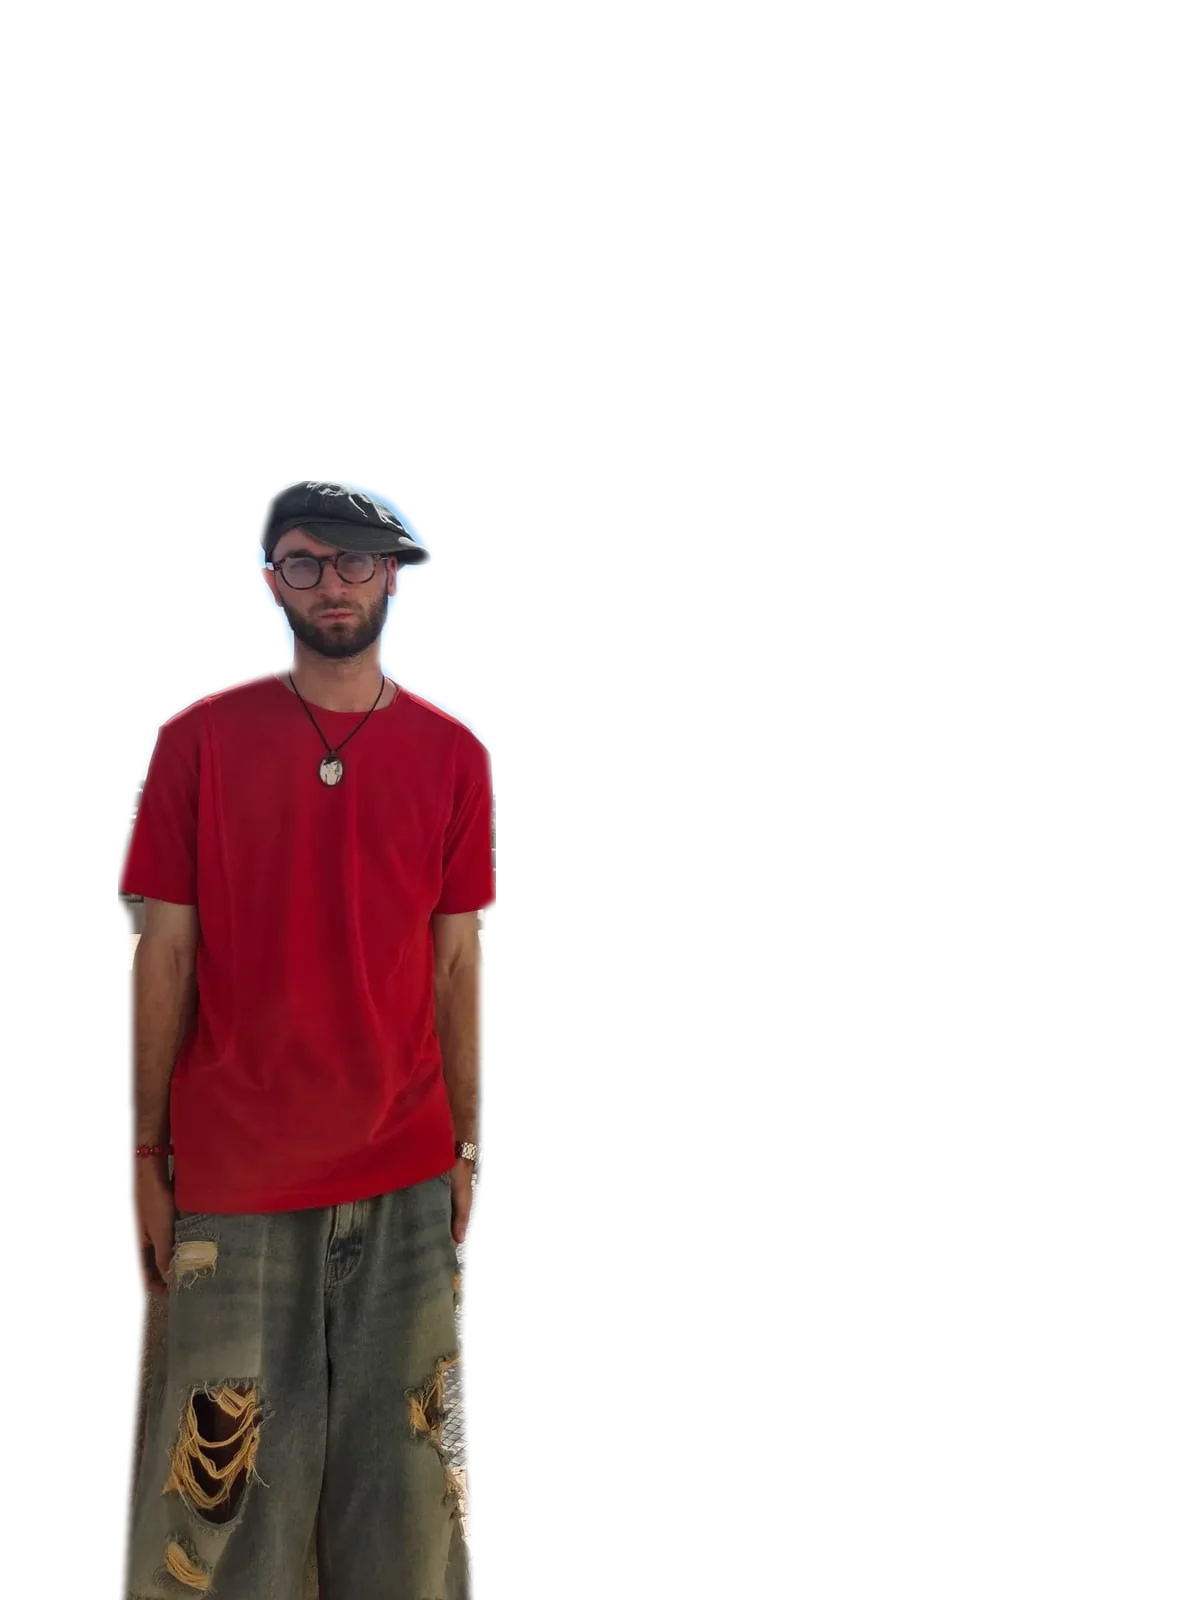
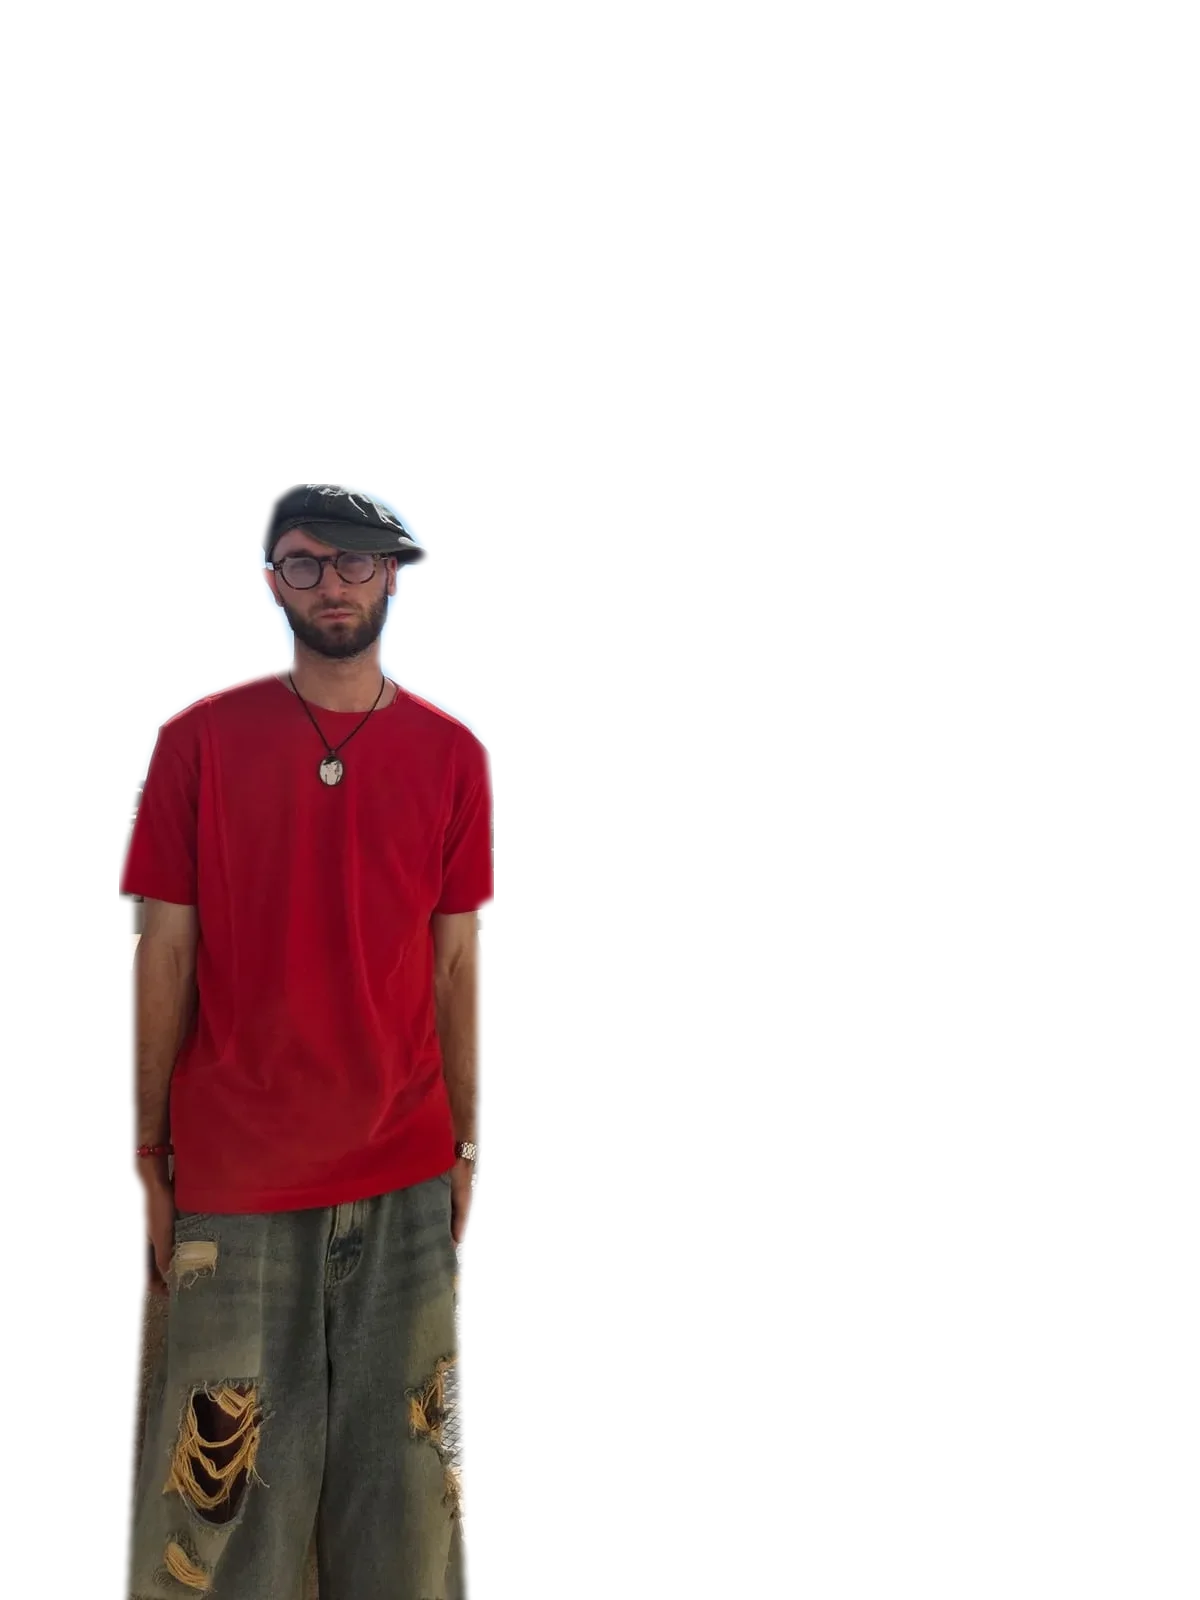
Interests collage: tighter cut-out, smaller plates, add lamb and malai
Retrace the hat, elbows, hands and legs of the Rome cut-out more tightly;
shrink the plates and scatter them on the open side with the poached pear
to the right of the figure; add braised lamb shank and chicken malai boti
handi cut-outs.

diff --git a/app/globals.css b/app/globals.css
@@ -393,17 +393,19 @@ body {
 .icollage .ic-figure-layer { z-index: 1; }
 .icollage .tag { z-index: 3; }
 /* dishes scattered on the open side of the photo */
-.icollage .ic-pear { left: 2%; top: 3%; width: 19%; transform: rotate(-7deg); }
-.icollage .ic-trout { left: 49%; top: 5%; width: 30%; transform: rotate(8deg); }
-.icollage .ic-ragu { left: 60%; top: 29%; width: 27%; transform: rotate(-5deg); }
-.icollage .ic-curry { left: 47%; top: 54%; width: 29%; transform: rotate(6deg); }
-.icollage .ic-steak { left: 61%; top: 74%; width: 26%; transform: rotate(-10deg); }
+.icollage .ic-pear { left: 50%; top: 4%; width: 15%; transform: rotate(8deg); }
+.icollage .ic-trout { left: 68%; top: 3%; width: 20%; transform: rotate(-6deg); }
+.icollage .ic-lamb { left: 52%; top: 20%; width: 20%; transform: rotate(5deg); }
+.icollage .ic-ragu { left: 72%; top: 24%; width: 18%; transform: rotate(-8deg); }
+.icollage .ic-curry { left: 49%; top: 49%; width: 20%; transform: rotate(-4deg); }
+.icollage .ic-malai { left: 73%; top: 55%; width: 17%; transform: rotate(7deg); }
+.icollage .ic-steak { left: 54%; top: 74%; width: 20%; transform: rotate(-9deg); }
 @media (max-width: 1023px) {
   .icollage .ic-bg img, .icollage .ic-figure-layer img { object-position: 25% 32%; transform: scale(1.15); transform-origin: 26% 40%; }
-  .icollage .ic-pear { left: 45%; top: 4%; width: 18%; }
-  .icollage .ic-trout { left: auto; right: 4%; top: 3%; width: 25%; }
-  .icollage .ic-ragu { left: 46%; top: 50%; width: 23%; }
-  .icollage .ic-curry { left: auto; right: 2%; top: 48%; width: 26%; }
-  .icollage .ic-steak { display: none; }
+  .icollage .ic-pear { left: 52%; top: 5%; width: 15%; }
+  .icollage .ic-trout { left: auto; right: 4%; top: 3%; width: 22%; }
+  .icollage .ic-lamb { left: 50%; top: 48%; width: 22%; }
+  .icollage .ic-curry { left: auto; right: 2%; top: 46%; width: 23%; }
+  .icollage .ic-ragu, .icollage .ic-malai, .icollage .ic-steak { display: none; }
   .icollage .tag { display: none; }
 }

diff --git a/components/site/interests-collage.tsx b/components/site/interests-collage.tsx
@@ -11,6 +11,8 @@ const plates = [
   { src: "/images/collage/plate-ragu.webp", cls: "ic-ragu", alt: "Beef ragù pasta" },
   { src: "/images/collage/plate-curry.webp", cls: "ic-curry", alt: "Thai-inspired yellow curry" },
   { src: "/images/collage/plate-steak.webp", cls: "ic-steak", alt: "Steak with creamy peppercorn sauce" },
+  { src: "/images/collage/plate-lamb.webp", cls: "ic-lamb", alt: "Braised lamb shank" },
+  { src: "/images/collage/plate-malai.webp", cls: "ic-malai", alt: "Chicken malai boti handi" },
 ]
 
 export function InterestsCollage() {
@@ -36,19 +38,19 @@ export function InterestsCollage() {
         <img src="/images/collage/marko-roma-full.webp" alt="" decoding="async" />
       </div>
 
-      <a className="tag hot" href="#cooking" style={{ top: "52%", left: "52%" }}>
+      <a className="tag hot" href="#cooking" style={{ top: "40%", left: "62%" }}>
         Cooking
       </a>
-      <a className="tag" href="#art" style={{ top: "28%", left: "50%" }}>
+      <a className="tag" href="#art" style={{ top: "6%", left: "3%" }}>
         Art
       </a>
-      <a className="tag desk-only" href="#photography" style={{ top: "26%", left: "3%" }}>
+      <a className="tag desk-only" href="#photography" style={{ top: "13%", left: "3%" }}>
         Photography
       </a>
-      <a className="tag desk-only" href="#music" style={{ top: "74%", left: "52%" }}>
+      <a className="tag desk-only" href="#music" style={{ top: "84%", left: "77%" }}>
         Music
       </a>
-      <Link className="tag" href="/" style={{ top: "92%", left: "62%" }}>
+      <Link className="tag" href="/" style={{ top: "92%", left: "60%" }}>
         ← Portfolio
       </Link>
       <LogoStrip num="27" />
